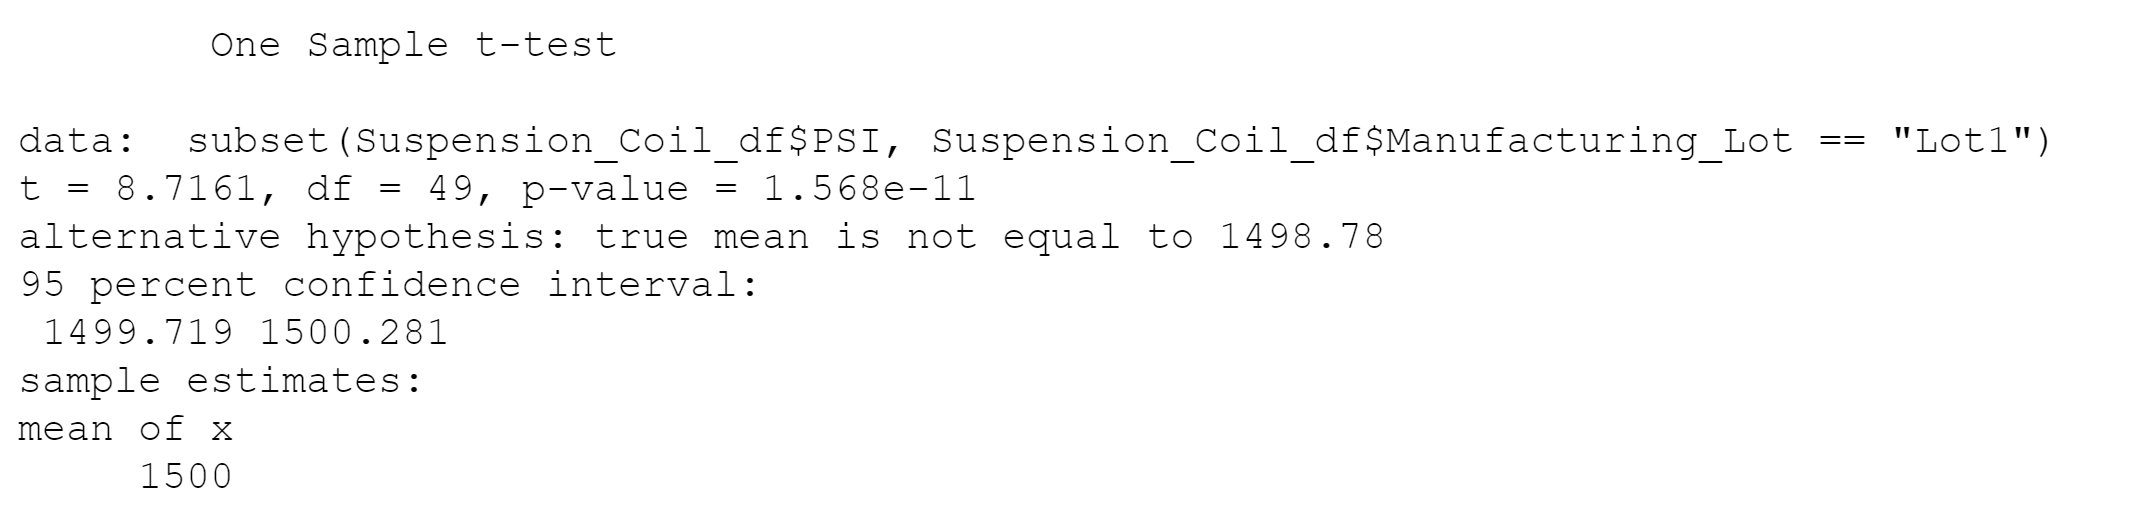
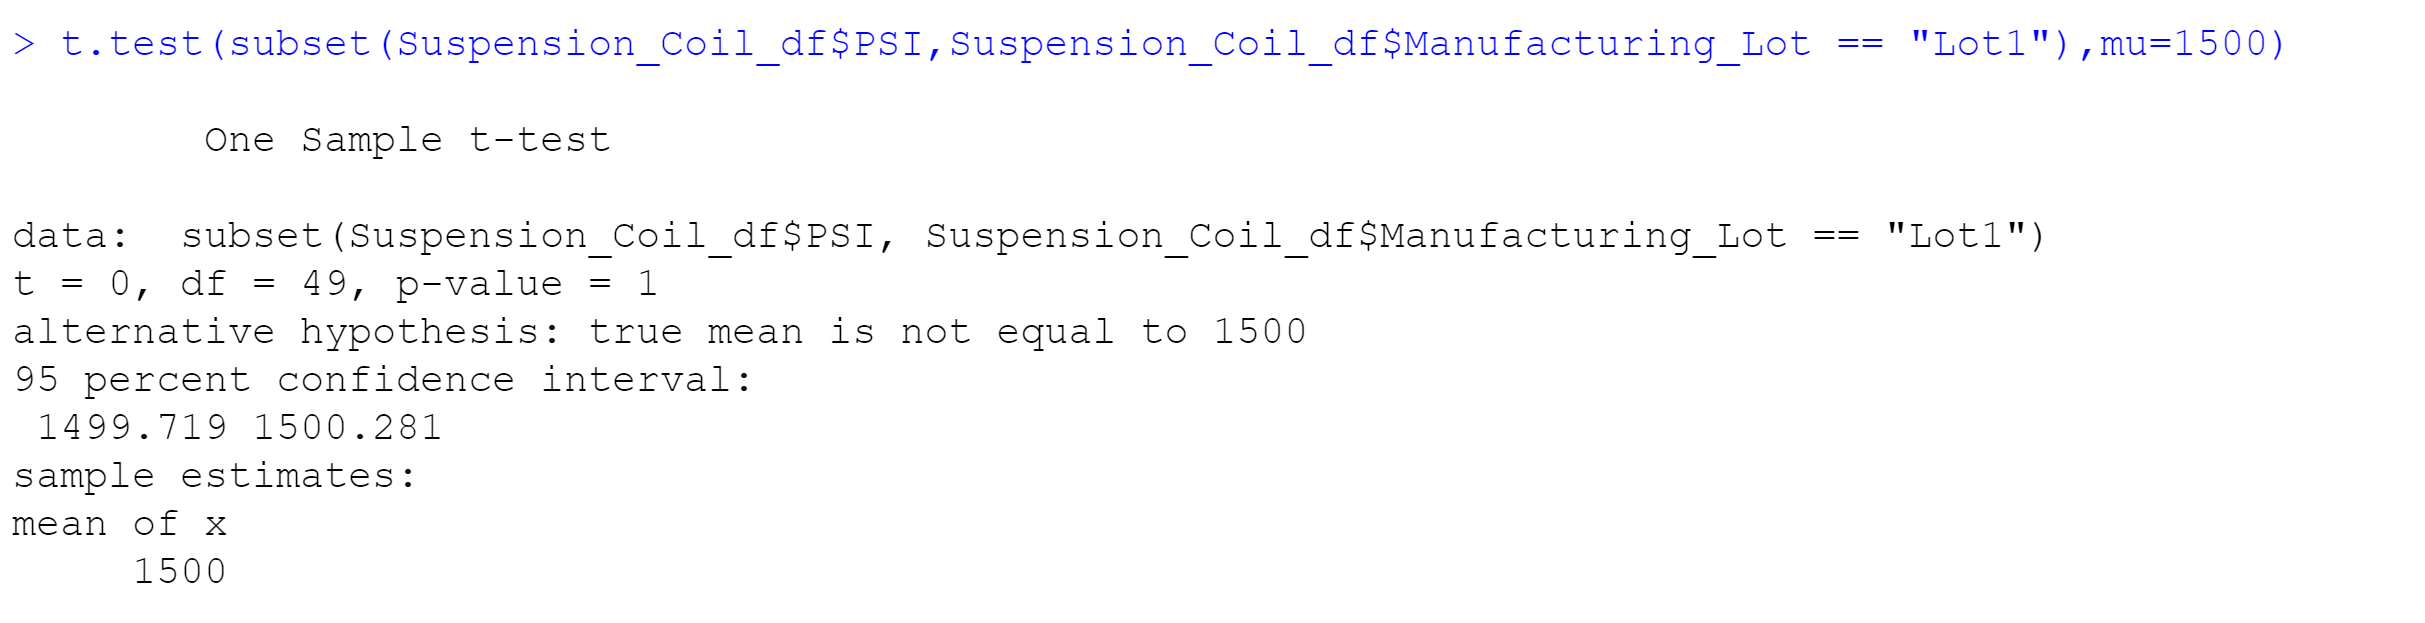
final

diff --git a/README.md b/README.md
@@ -43,27 +43,34 @@ The total_summary only shows a variance of 62.29356 which is less than 100.  Ind
 
 # Deliverable 3: T-Tests on Suspension Coils
 
-![Graph 3a. Results](resources/Deliverable3a.png)
-![Graph 3b. Results](resources/Deliverable3b.png)
-![Graph 3c. Results](resources/Deliverable3c.png)
-![Graph 3d. Results](resources/Deliverable3d.png)
-
 ## Deliverable 3 Written Summary
 
 ## T-Tests on Suspension Coils
 
 ### Summary for All
-For the summary of the t-test results across all manufacturing lots we have a p-value = 1,Assuming our significance level was the common 0.05 percent, our p-value is above our significance level. Therefore, we do not have sufficient evidence to reject the null hypothesis, and we would state that the two means are statistically similar.
+Code: t.test(Suspension_Coil_df$PSI,mu=mean(Suspension_Coil_df$PSI))
+
+For the summary of the t-test results across all manufacturing lots we have a mean of 1498.78.(The screeshots below displays mean of 1498.78)
+![Graph 3a. Results](resources/Deliverable3a.png)
+
 
 ### Lot1
-Lot1 has a p-value = 1.568e-11 aka 0.00000000001568. Assuming our significance level was the common 0.05 percent, our p-value is below our significance level.  Therefore we do have sufficient evidence to reject the null hypothesis, and we would state that the two means are not statistically similar.
+Code: t.test(subset(Suspension_Coil_df$PSI,Suspension_Coil_df$Manufacturing_Lot == "Lot1"),mu=mean(Suspension_Coil_df$PSI))
+
+Lot1 has a mean value of 1500(The screeshots below displays mean of 1500)
+![Graph 3b. Results](resources/Deliverable3b.png)
 
 ### Lot2
-Lot2 has a p-value = 0.0005911. Assuming our significance level was the common 0.05 percent, our p-value is below our significance level.  Therefore we do have sufficient evidence to reject the null hypothesis, and we would state that the two means are not statistically similar.
+Code: t.test(subset(Suspension_Coil_df$PSI,Suspension_Coil_df$Manufacturing_Lot == "Lot2"),mu=mean(Suspension_Coil_df$PSI))
+
+Lot2 has a mean value of 1500.2(The screeshots below displays mean of 1500.2)
+![Graph 3c. Results](resources/Deliverable3c.png)
 
 ### Lot3
-Lot3 has a p-value = 0.1589. Assuming our significance level was the common 0.05 percent, our p-value is above our significance level. Therefore, we do not have sufficient evidence to reject the null hypothesis, and we would state that the two means are statistically similar.
+Code: t.test(subset(Suspension_Coil_df$PSI,Suspension_Coil_df$Manufacturing_Lot == "Lot3"),mu=mean(Suspension_Coil_df$PSI))
 
+Lot3 has a mean value of 1496.14(The screeshots below displays mean of 1496.14)
+![Graph 3d. Results](resources/Deliverable3d.png)
 
 # Deliverable 4: Design a Study Comparing the MechaCar to the Competition
 
